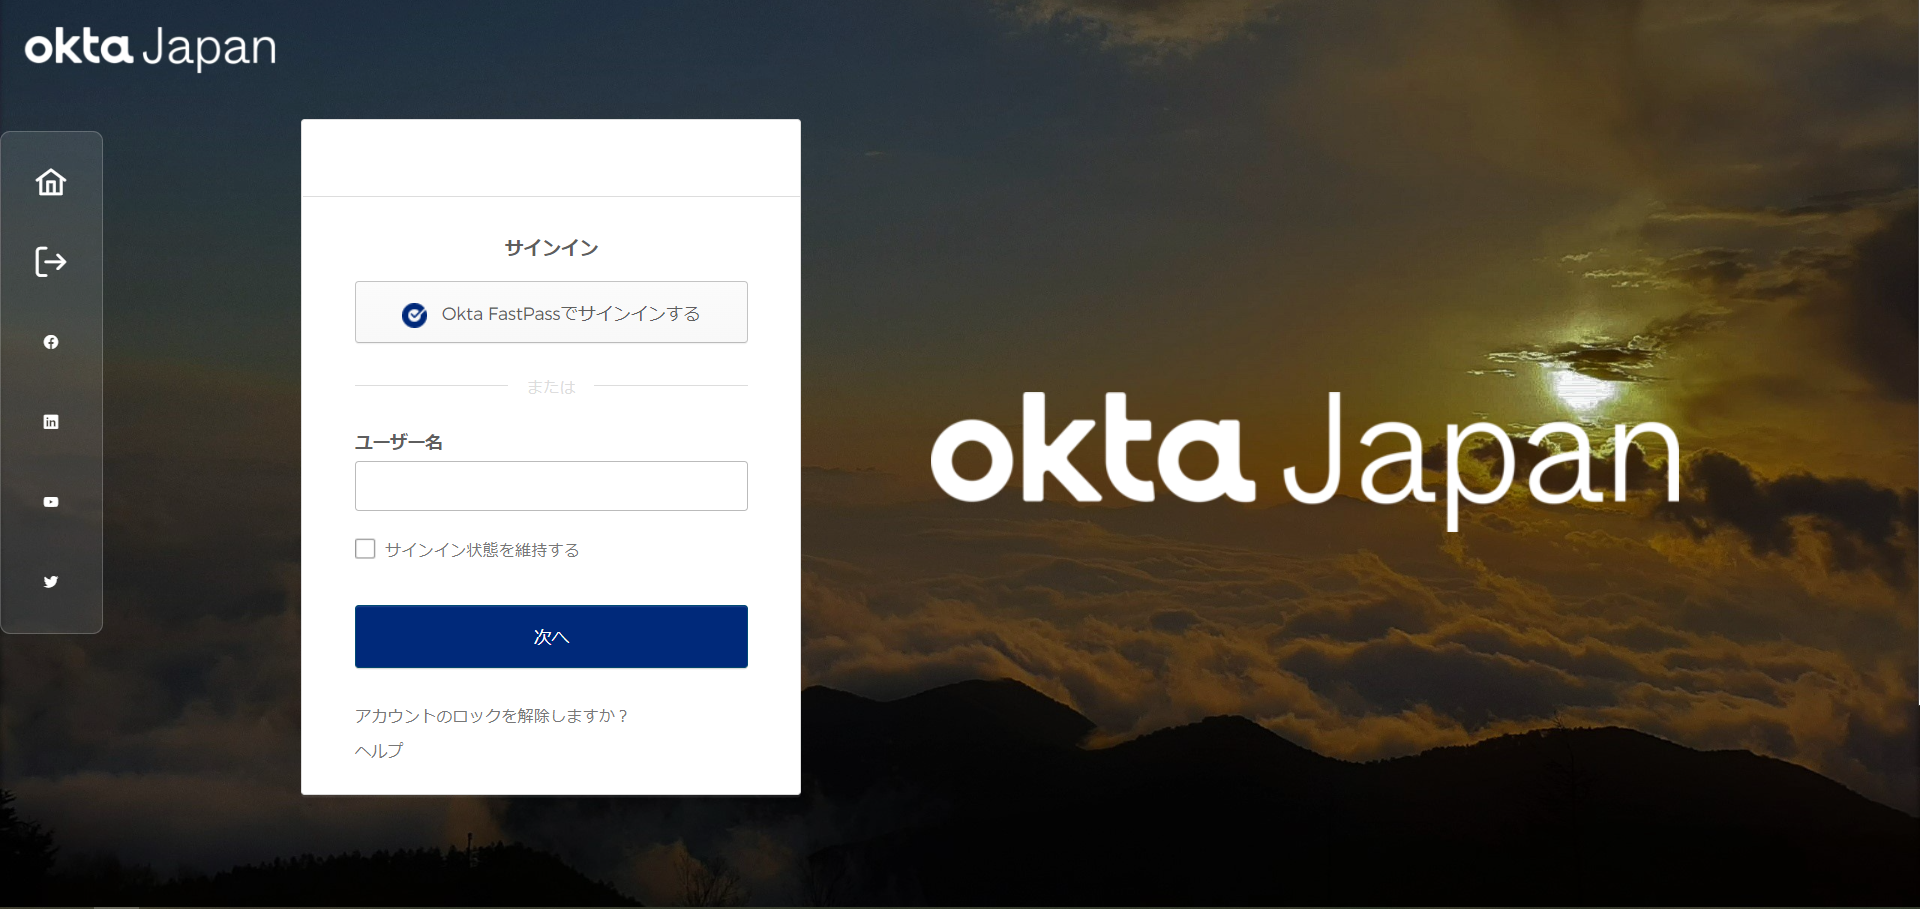
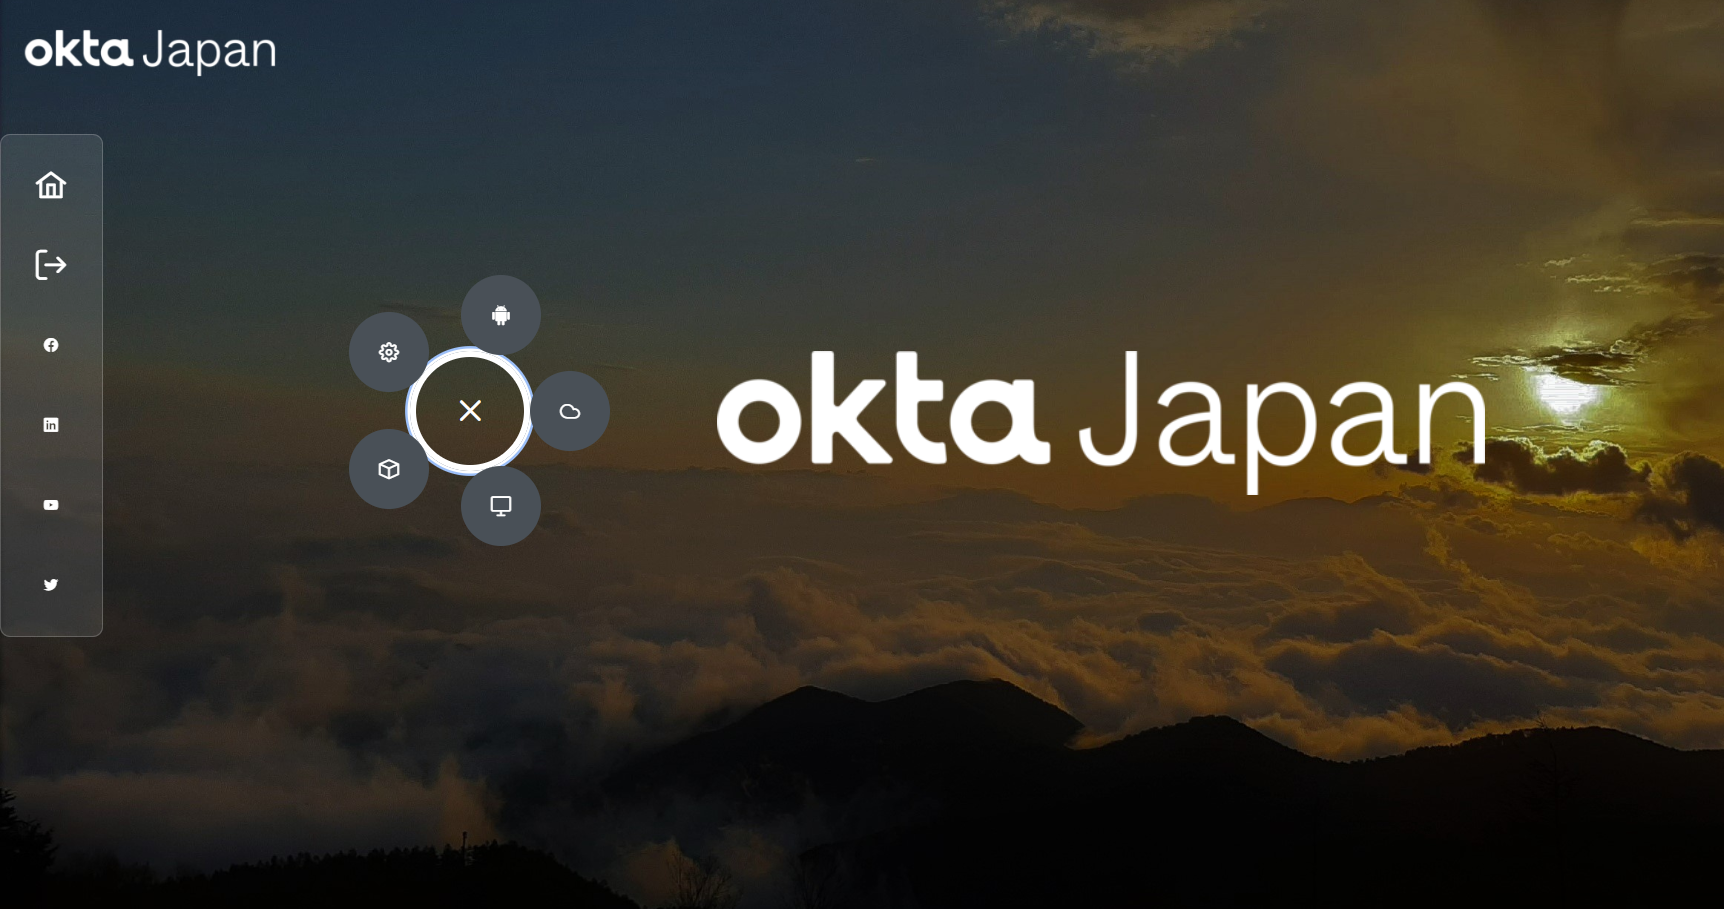
main
main

diff --git a/src/app/start/start.component.scss b/src/app/start/start.component.scss
@@ -1,44 +1,55 @@
-.mainDiv{
+.mainDiv {
   // border-style: dotted;
-  color:#FFFFFF;
-  
-  margin-top: 20vh!important;
-  width: 85vw!important;
-  height:55vh!important;
-  text-align: center!important;
-  
+  color: #ffffff;
+
+  margin-top: 20vh !important;
+  width: 85vw !important;
+  height: 55vh !important;
+  text-align: center !important;
 }
 
-.userNameDiv{
-  margin-top: 30px!important;
-  margin-bottom: 30px!important;
+.userNameDiv {
+  margin-top: 30px !important;
+  margin-bottom: 30px !important;
 }
 
-.userName{
-  
-  padding-right: 50px!important;
-  padding-left: 50px!important;
+.userName {
+  padding-right: 50px !important;
+  padding-left: 50px !important;
   font-family: "ABCWhyte Book", "-apple-system", "BlinkMacSystemFont", "Segoe UI", "Roboto", "Oxygen-Sans", "Ubuntu",
-  "Cantarell", "Helvetica Neue", sans-serif!important;
-  
-  font-size: 20px!important;
-  font-weight: 800!important;
+    "Cantarell", "Helvetica Neue", sans-serif !important;
+
+  font-size: 20px !important;
+  font-weight: 800 !important;
 }
 
-#starHome{
-  .p-button{
-    text-align: center!important;
-    background-color: #00297A!important;
+#starHome {
+  .p-button {
+    text-align: center !important;
+    background-color: #00297a !important;
     // width: 20vw!important;
-    height: 10vh!important;
-    padding-right: 50px!important;
-    padding-left: 50px!important;
+    height: 10vh !important;
+    padding-right: 50px !important;
+    padding-left: 50px !important;
     font-family: "ABCWhyte Book", "-apple-system", "BlinkMacSystemFont", "Segoe UI", "Roboto", "Oxygen-Sans", "Ubuntu",
-    "Cantarell", "Helvetica Neue", sans-serif!important;
+      "Cantarell", "Helvetica Neue", sans-serif !important;
   }
 }
 
-.btnImage{
-  text-align: center!important;
-  height:7vh!important;
+.btnImage {
+  text-align: center !important;
+  height: 7vh !important;
 }
+
+.startBannerDiv {
+  text-align: center !important;
+}
+
+.startBanner {
+  width: 50vw !important;
+}
+
+.homeBtnDiv{
+  text-align: center !important;  
+}
+

diff --git a/src/app/shared/menu-items/menu-list.service.ts b/src/app/shared/menu-items/menu-list.service.ts
@@ -46,16 +46,16 @@ export class MenuListService {
         this.openiFrameModal();
       }
     },
-    // {
-    //   tooltipOptions: {
-    //     tooltipLabel: "デフォルトのWidget",
-    //     tooltipPosition: "top",
-    //   },
-    //   icon: 'pi pi-box',
-    //   command: () => {
-    //     this.openDefaultWidgetModal();
-    //   }
-    // },
+    {
+      tooltipOptions: {
+        tooltipLabel: "デフォルトのWidget",
+        tooltipPosition: "top",
+      },
+      icon: 'pi pi-box',
+      command: () => {
+        this.openDefaultWidgetModal();
+      }
+    },
     {
       tooltipOptions: {
         tooltipLabel: "カスタムのWidget",
@@ -195,7 +195,7 @@ export class MenuListService {
   async openDefaultWidgetModal() {
     await this.HostedAuthService.closeSession();
     const WidgetDialogConfig = new MatDialogConfig();
-    WidgetDialogConfig.disableClose = false;
+    WidgetDialogConfig.disableClose = true;
     WidgetDialogConfig.id = "default-widget-modal-component";
     WidgetDialogConfig.height = "auto";
     WidgetDialogConfig.width = "auto";
@@ -205,7 +205,7 @@ export class MenuListService {
   async openCustomWidgetModal() {
     await this.HostedAuthService.closeSession();
     const WidgetDialogConfig = new MatDialogConfig();
-    WidgetDialogConfig.disableClose = false;
+    WidgetDialogConfig.disableClose = true;
     WidgetDialogConfig.id = "custom-widget-modal-component";
     WidgetDialogConfig.height = "auto";
     WidgetDialogConfig.width = "auto";
@@ -226,4 +226,8 @@ export class MenuListService {
 
     const modalDialog = this._matdialog.open(SdkLoginComponent, WidgetDialogConfig);
   }
+
+  
+ 
+
 }

diff --git a/src/app/custom-widget/custom-widget.component.scss b/src/app/custom-widget/custom-widget.component.scss
@@ -95,6 +95,7 @@
   color: #fff;
   background-color: #FF5733 !important;
    background: #FF5733 !important;
+   border-color:  #FF5733 !important;
 }
 
 #okta-sign-in.auth-container .mfa-okta-verify {
@@ -104,4 +105,41 @@
 
 #okta-sign-in.auth-container .mfa-okta-password {
   background-image: url('/assets/img/panda-logo.png')!important;
+}
+
+#okta-sign-in.auth-container h3 {
+   color: #FFFFFF!important;
+}
+
+#okta-sign-in.auth-container .okta-form-subtitle {
+  color: #FFFFFF!important;
+}
+
+#customSIWBack{
+  .p-button {
+    // background-color: #FF5733 !important;
+    padding: 5px !important;
+    width: 100px !important;
+    height:30px!important;
+  }
+}
+
+#customSIWBack{
+  .p-button:hover {
+    // background-color: #FF5733 !important;
+    background-color: transparent !important;
+    padding: 5px !important;
+    width: 100px !important;
+    height:30px!important;
+  }
+}
+
+
+.backbtnDiv{
+  padding:10px!important;
+}
+
+
+#okta-sign-in .auth-org-logo {
+  border-radius: 5px!important;
 }

diff --git a/src/app/custom-widget/custom-widget.component.ts b/src/app/custom-widget/custom-widget.component.ts
@@ -3,6 +3,7 @@ import {OktaWidgetService} from '../shared/okta/okta-widget.service';
 import { OktaConfigService } from '../shared/okta/okta-config.service';
 import { ViewEncapsulation } from '@angular/core';
 
+
 @Component({
   selector: 'app-custom-widget',
   templateUrl: './custom-widget.component.html',
@@ -18,7 +19,11 @@ export class CustomWidgetComponent implements OnInit {
 
   async ngOnInit() {
     await this.OktaWidgetService.CloseWidget();
-    await this.OktaWidgetService.login(this.OktaConfigService.strRedirectURL,this.OktaConfigService.strWidgetClientID);
+    await this.OktaWidgetService.login(this.OktaConfigService.strRedirectURL,this.OktaConfigService.strWidgetClientID,'assets/img/logo.png');
 
+  }
+
+  async ReloadPage(){
+    await window.location.replace(this.OktaConfigService.strPostLogoutURL);
   }
 }

diff --git a/src/app/start/start.component.html b/src/app/start/start.component.html
@@ -1,12 +1,15 @@
 <div class="mainDiv">
-  <div class="userNameDiv">
-    <a class="userName">{{strThisUser?.name}}</a>
+  <div class="startBannerDiv">
+    <img src="assets/img/okta_japan_white_medium.png" class="startBanner">
   </div>
-  <div>
-    
-    <p-button style Class="p-button-raised p-button-primary" id="starHome" (click)="GoToHome()"><img src="assets/img/data_visual_3.png" class="btnImage" >ホーム</p-button>
+
+  <div class="userNameDiv">
+    <a class="userName">{{strThisUser?.name}}</a>  
+  </div>
+  
+  
+  <div class="homeBtnDiv">
+    <p-button style Class="p-button-raised p-button-primary" id="starHome" (click)="GoToHome()"><img
+        src="assets/img/data_visual_3.png" class="btnImage">ホーム</p-button>
   </div>
 </div>
-
-
-

diff --git a/src/app/shared/okta/okta-widget.service.ts b/src/app/shared/okta/okta-widget.service.ts
@@ -28,7 +28,7 @@ export class OktaWidgetService {
     return authenticated;
   }
 
-  async login(redirecturi, clientid, strBrand?) {
+  async login(redirecturi, clientid, logoPath?, strBrand?) {
     // const OktaClientID = this.OktaConfig.strClientID;
     const OktaClientID =  clientid;
     const OktaBaseURI = this.OktaConfig.strBaseURI;
@@ -44,7 +44,7 @@ export class OktaWidgetService {
     const OktaPKCE = this.OktaConfig.strPkce;
     // const OktaWidgetLogo = this.OktaConfig.strLogo;
     var oktaSignIn = new OktaSignIn({
-      // logo: OktaWidgetLogo,
+      logo: logoPath,
       clientId: OktaClientID,
       baseUrl: OktaBaseURI,
       language: OktaLang,

diff --git a/src/app/default-widget/default-widget.component.html b/src/app/default-widget/default-widget.component.html
@@ -5,3 +5,6 @@
 <link href="https://global.oktacdn.com/okta-signin-widget/6.2.1/css/okta-sign-in.min.css" type="text/css"
   rel="stylesheet" />
 <div id="okta-signin-container"></div>
+<div class="widgetbackbtnDiv">
+  <p-button label="閉じる" iconPos="right" icon="pi caret-left" id="defaultSIWBack" (click)="ReloadPage()"></p-button>
+</div>

diff --git a/src/app/landing/landing.component.scss b/src/app/landing/landing.component.scss
@@ -78,6 +78,11 @@
     .p-speeddial-action {
       width: 4rem !important;
       height: 4rem !important;
+      -webkit-backdrop-filter: blur(6px) !important;
+      backdrop-filter: blur(6px) !important;
+      background: transparent !important;
+      border: solid #ffffff;
+      
     }
     
   }

diff --git a/src/app/custom-widget/custom-widget.component.html b/src/app/custom-widget/custom-widget.component.html
@@ -6,3 +6,6 @@
 <div class="WidgetBackDiv">
   <div id="okta-signin-container"></div>
 </div>
+<div class="backbtnDiv">
+  <p-button label="閉じる" iconPos="right" icon="pi caret-left" id="customSIWBack" (click)="ReloadPage()"></p-button>
+</div>

diff --git a/src/app/default-widget/default-widget.component.scss b/src/app/default-widget/default-widget.component.scss
@@ -1,0 +1,12 @@
+.widgetbackbtnDiv{
+  padding:10px!important; 
+}
+
+#defaultSIWBack{
+  .p-button {
+    background-color: #00297A !important;
+    padding: 10px !important;
+    width: 100px !important;
+    // height:30px!important;
+  }
+}

diff --git a/src/app/default-widget/default-widget.component.ts b/src/app/default-widget/default-widget.component.ts
@@ -22,5 +22,8 @@ export class DefaultWidgetComponent implements OnInit {
 
   }
 
+  async ReloadPage(){
+    await window.location.replace(this.OktaConfigService.strPostLogoutURL);
+  }
 
 }

diff --git a/src/app/start/start.component.ts b/src/app/start/start.component.ts
@@ -58,6 +58,7 @@ export class StartComponent implements OnInit {
   }
 
   async GoToHome(){
+    await this.authService.closeSession();
     this.Router.navigate(['/home']);
   }
 
